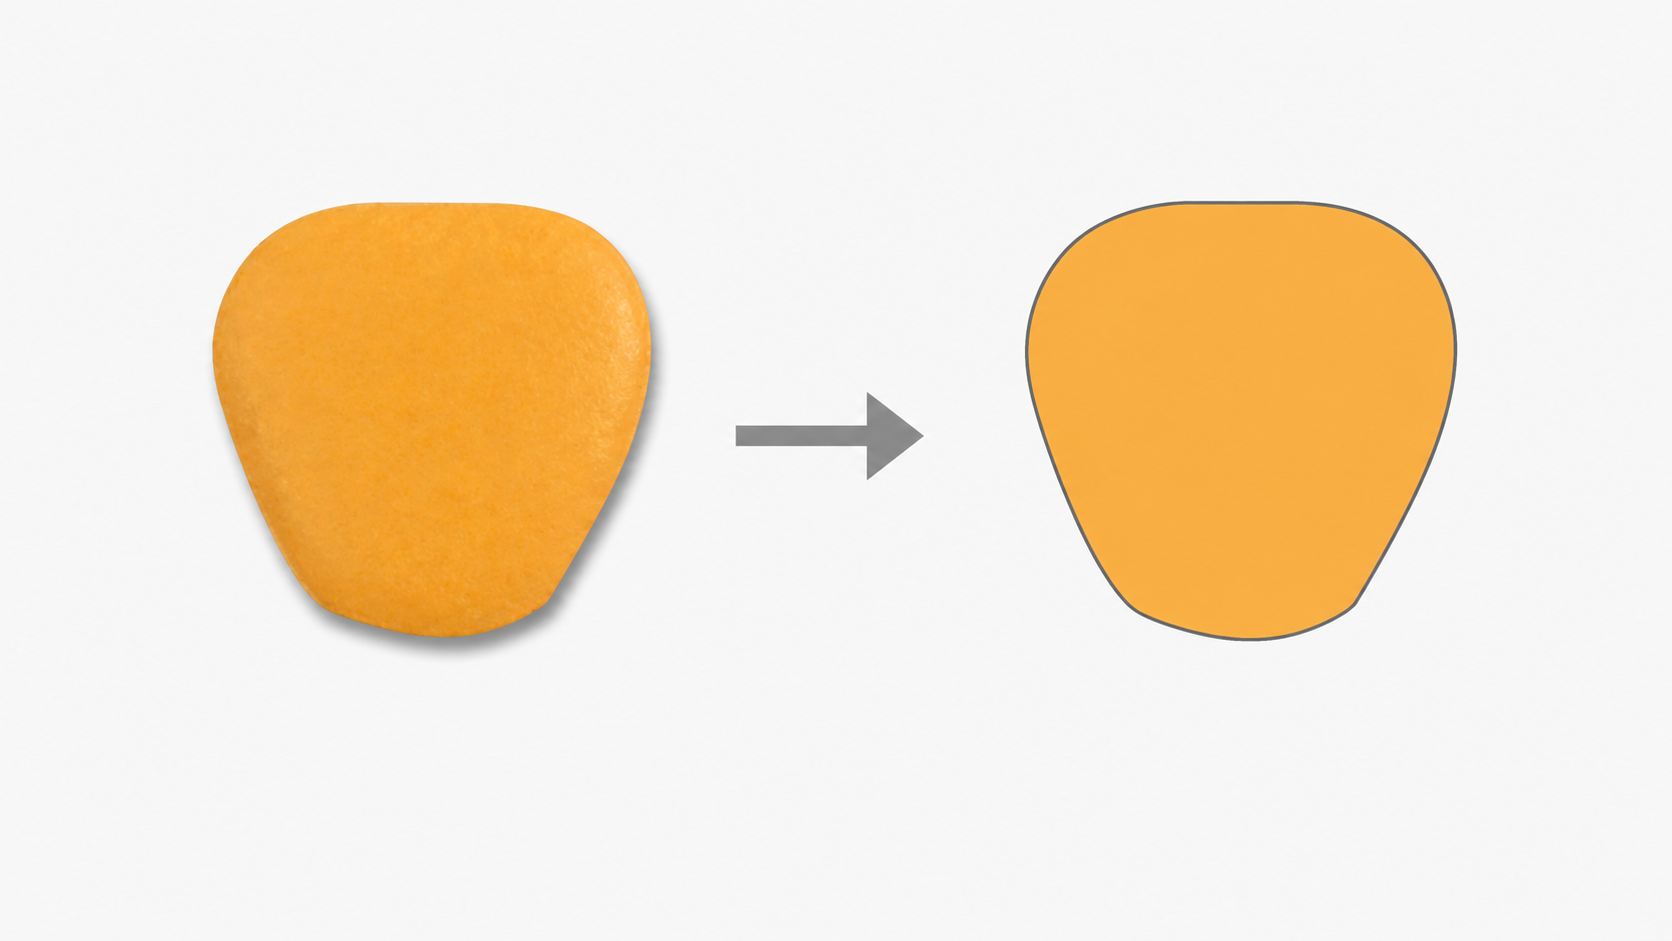
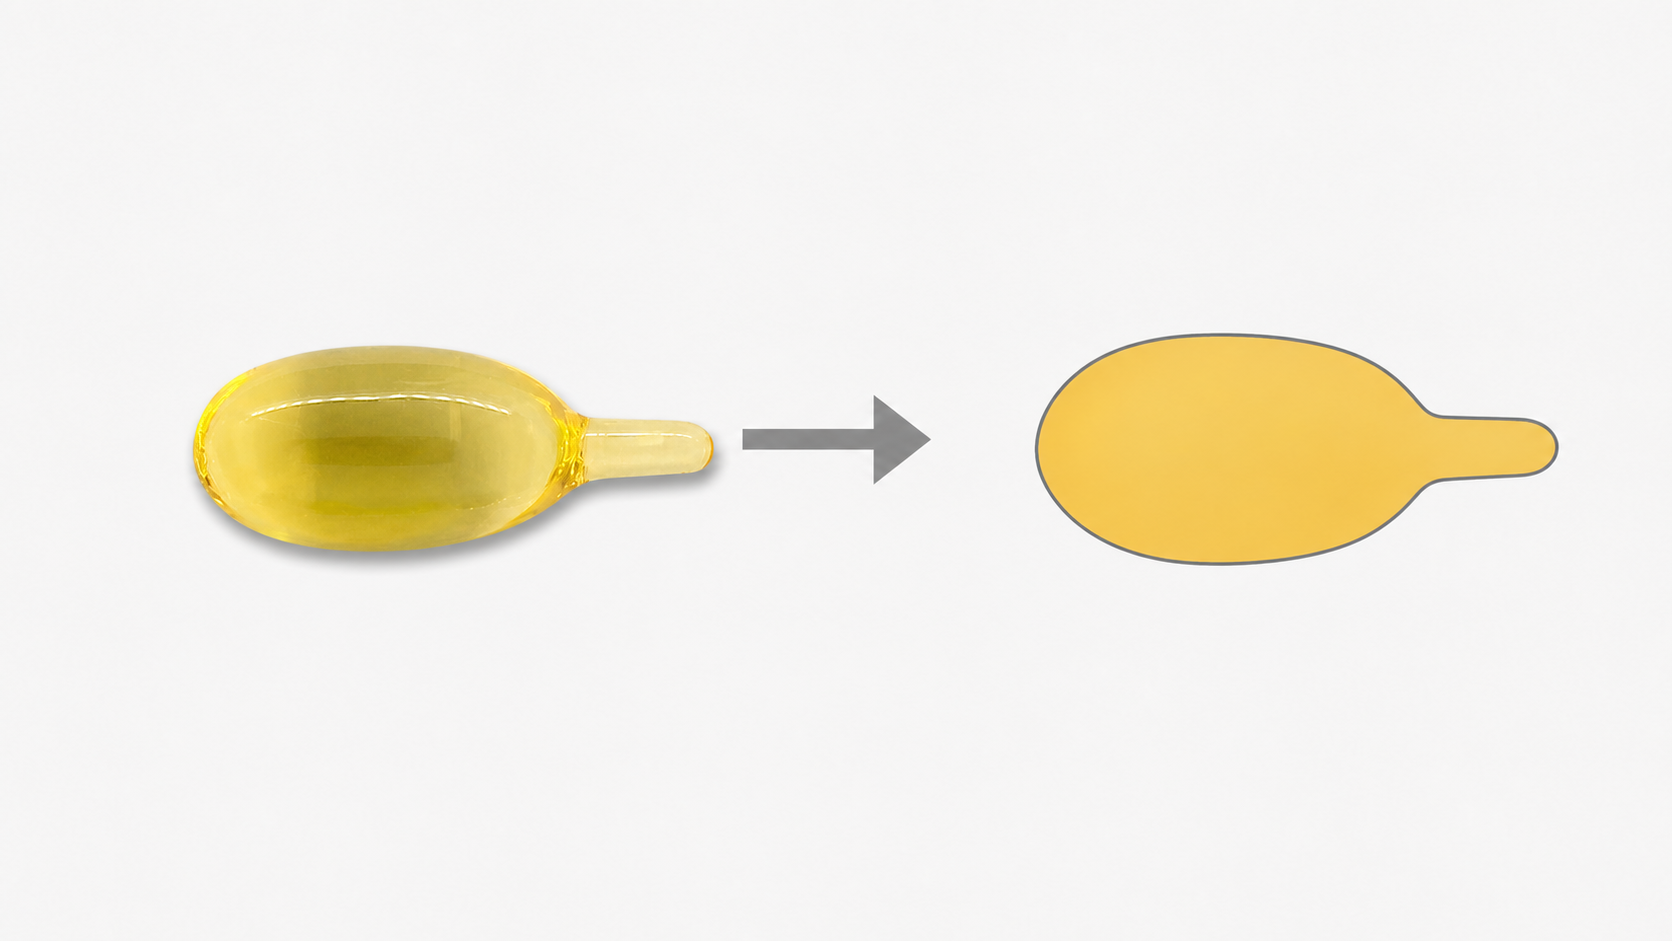
260716

Changed region(s): [[0.0933, 0.2157, 0.5598, 0.7088], [0.5909, 0.2157, 0.933, 0.678]]

diff --git a/ppt/build_proj2_ssm.py b/ppt/build_proj2_ssm.py
@@ -320,9 +320,9 @@ def build_slide_3(prs):
     )
 
     cards = [
-        (1.65, "장방형", ROOT / "shape_rectangular.png", BLUE),
-        (9.62, "사과형", ROOT / "shape_apple_v2.png", CYAN),
-        (17.59, "땅콩형", ROOT / "shape_peanut.png", BLUE),
+        (1.65, "장방형", ROOT / "shape_rectangular_bg.png", BLUE),
+        (9.62, "사과형", ROOT / "shape_apple_bg.png", CYAN),
+        (17.59, "땅콩형", ROOT / "shape_peanut_bg.png", BLUE),
     ]
     for idx, (x, label, image_path, color) in enumerate(cards, start=1):
         add_shape(slide, MSO_SHAPE.ROUNDED_RECTANGLE, x, 4.95, 7.42, 6.40, LIGHT_GRAY)

diff --git a/설명.md b/설명.md
@@ -1,0 +1,160 @@
+# 형상 특징 차원수와 가중치 설명
+
+`shape_features.py`는 알약 윤곽을 총 56개 숫자로 표현한 다음, 네 특징 그룹의 중요도가 균형 있게 반영되도록 가중 유클리드 거리를 계산한다.
+
+## 1. 56차원 구성
+
+| 그룹 | 차원 계산 | 차원 | 의미 |
+|---|---:|---:|---|
+| 기본 기하 | 9개 지표 | 9 | 길쭉함, 원형성, 볼록성, 대칭성 등 |
+| EFD | 12 harmonics × 2 특이값 | 24 | 전체 윤곽의 세부 형태 |
+| 방사형 FFT | 1~16 주파수 | 16 | 중심에서 외곽까지 거리 변화 |
+| Hu moment | 7개 모멘트 | 7 | 전체적인 형상 패턴 |
+| 합계 | 9+24+16+7 | **56** | |
+
+### 기본 기하 특징 9차원
+
+1. `log_aspect_ratio`: 긴 변/짧은 변 비율
+2. `circularity`: 원에 얼마나 가까운지
+3. `eccentricity`: 타원처럼 길쭉한 정도
+4. `rectangularity`: 최소 외접 사각형을 얼마나 채우는지
+5. `solidity`: 볼록 껍질 내부를 얼마나 채우는지
+6. `convexity`: 윤곽이 얼마나 볼록하고 매끄러운지
+7. `concavity`: 오목하게 들어간 정도, `1 - solidity`
+8. `symmetry_best_axis`: 두 축 중 대칭도가 높은 축
+9. `symmetry_other_axis`: 나머지 축의 대칭도
+
+`solidity`와 `concavity`는 서로 반대값이므로 오목한 형태, 특히 땅콩형이나 나비형의 특징이 기본 기하 그룹 안에서 비교적 강하게 반영된다.
+
+### EFD 24차원
+
+윤곽선을 12개의 주파수 성분으로 분해한다. 각 harmonic에서 2×2 계수 행렬의 특이값 2개를 사용하므로 다음과 같이 24차원이 된다.
+
+```text
+12 harmonics × 2 values = 24차원
+```
+
+낮은 harmonic은 전체적인 타원·삼각·사각 형태를, 높은 harmonic은 모서리와 오목한 부분 같은 세부 윤곽을 표현한다.
+
+### 방사형 FFT 16차원
+
+알약 중심에서 외곽까지의 거리를 64개 각도 구간에서 측정한 뒤 FFT를 적용한다. 평균 크기인 0번 주파수는 제외하고 1~16번 주파수만 사용한다.
+
+따라서 크기 자체보다는 다음과 같은 반복적인 윤곽 변화를 표현한다.
+
+- 원형처럼 반지름 변화가 적은 형태
+- 타원처럼 양쪽으로 길쭉한 형태
+- 땅콩처럼 중간이 들어간 형태
+- 별형이나 다각형처럼 주기적인 굴곡이 있는 형태
+
+### Hu moment 7차원
+
+전체 윤곽의 모멘트에서 계산되는 전통적인 7개 형상 특징이다. 값의 범위가 매우 크기 때문에 로그 변환하며, 반전에 따른 부호 차이는 제거한다.
+
+## 2. 그룹 가중치 의미
+
+기본값은 다음과 같다.
+
+```python
+{
+    "basic": 0.40,
+    "efd": 0.35,
+    "radial": 0.20,
+    "hu": 0.05,
+}
+```
+
+합계는 1.0이다.
+
+- 기본 기하: **40%**
+- EFD: **35%**
+- 방사형: **20%**
+- Hu moment: **5%**
+
+이 값은 각 차원에 그대로 곱하지 않는다. 그룹의 차원수가 많다고 자동으로 영향력이 커지는 것을 막기 위해 다음처럼 차원별 가중치를 계산한다.
+
+```text
+차원별 가중치 = sqrt(그룹 가중치 / 그룹 차원수)
+```
+
+실제 값은 다음과 같다.
+
+| 그룹 | 계산 | 차원별 가중치 |
+|---|---:|---:|
+| 기본 기하 | √(0.40/9) | 0.2108 |
+| EFD | √(0.35/24) | 0.1208 |
+| 방사형 | √(0.20/16) | 0.1118 |
+| Hu | √(0.05/7) | 0.0845 |
+
+## 3. 제곱근을 사용하는 이유
+
+최종 비교가 유클리드 거리이기 때문이다.
+
+```text
+distance = sqrt(Σ(weighted_query - weighted_reference)²)
+```
+
+가중치를 곱한 뒤 다시 제곱하므로, 차원별로 `sqrt(weight / 차원수)`를 곱해야 그룹 전체의 제곱거리 영향력이 `weight`가 된다.
+
+최종 제곱거리는 사실상 다음과 같다.
+
+```text
+distance² =
+    0.40 × 기본 특징의 평균 제곱 차이
+  + 0.35 × EFD의 평균 제곱 차이
+  + 0.20 × 방사형 특징의 평균 제곱 차이
+  + 0.05 × Hu moment의 평균 제곱 차이
+```
+
+따라서 EFD가 24차원이라고 해서 9차원인 기본 기하보다 자동으로 2.67배 중요해지지 않는다.
+
+예를 들어 네 그룹의 평균 표준화 제곱 차이가 모두 1이라면 다음과 같이 계산된다.
+
+```text
+distance² = 0.40 + 0.35 + 0.20 + 0.05 = 1.0
+distance = 1.0
+```
+
+## 4. 가중치 적용 전 표준화
+
+각 특징은 단위와 값의 범위가 다르므로 먼저 다음과 같이 표준화한다.
+
+```text
+표준화값 = (원시 특징값 - 학습 데이터 중앙값) / IQR
+```
+
+그 후 값이 지나치게 커지는 것을 방지하기 위해 `-10~10`으로 제한하고, 차원별 가중치를 곱한다.
+
+```python
+standardized = clip((vector - median) / IQR, -10, 10)
+result = standardized * dimension_weights
+```
+
+전체 처리 순서는 다음과 같다.
+
+```text
+56차원 추출
+→ 중앙값/IQR 표준화
+→ 이상값 -10~10 제한
+→ 그룹별 차원 가중치 적용
+→ 유클리드 거리 계산
+```
+
+## 5. 현재 가중치의 해석
+
+이 가중치는 학습으로 자동 산출된 값이 아니라 수동으로 설정한 기본값이다.
+
+- `basic 0.40`: 가로세로비나 오목도처럼 안정적이고 해석하기 쉬운 특징을 가장 중요하게 본다.
+- `EFD 0.35`: 기본 특징으로 구분하기 어려운 세부 윤곽을 강하게 반영한다.
+- `radial 0.20`: 중심 기준 굴곡 정보를 보완적으로 사용한다.
+- `Hu 0.05`: 유용하지만 마스크 노이즈에 민감하고 다른 특징과 중복되는 부분이 있어 낮게 설정했다.
+
+여기서 “기본 기하 40%”는 모든 검색 결과에서 정확히 거리의 40%를 차지한다는 뜻이 아니다. 네 그룹의 평균 표준화 오차가 비슷할 때 제곱거리의 약 40%를 담당하도록 설계했다는 의미다.
+
+## 6. 관련 구현 위치
+
+- 특징 이름 및 그룹 구성: `shape_features.py`의 `BASIC_FEATURE_NAMES`, `EFD_FEATURE_NAMES`, `RADIAL_FEATURE_NAMES`, `HU_FEATURE_NAMES`
+- 기본 그룹 가중치: `DEFAULT_GROUP_WEIGHTS`
+- 차원별 가중치 계산: `feature_dimension_weights()`
+- 표준화 및 가중치 적용: `transform_features()`
+- 최종 거리 계산: `predict_handcrafted_shape.py`의 `np.linalg.norm()` 호출 부분

diff --git a/docs/prompt.md b/docs/prompt.md
@@ -60,3 +60,40 @@ shape_features.md
 2. ppt.note.md 파일을 바탕으로 proj2_ssm.pptx 작성
 3. ppt 템플릿은 ppt_template_proj2.pptx를 사용
 4. ppt는 3장만 만들면 된다.
+
+
+# 이미지 교체
+1. ppt 폴더에 있는 proj2_ssm.pptx 의 첫 번째 페이지에 들어가는 이미지 shape_extraction_process.png 를 수정하고 싶다.
+2. 기존 이미지에는 사과형이 들어가 있는데 'C:\Workspace\deeplearning\pill_shape_similarity\test_images\A11AOOOOO100201.jpg' 이 이미지로 교체하고 싶다.
+3. 기존 이미지의 내용 형식은 지키면서 사과형 알약만 물방울3 알약으로 교체시켜줘
+4. 수정한 이미지는 shape_extraction_process_.png 로 만들어줘
+
+
+
+# 요구사항
+니가 크롭한 이미지들인데 크롭만 해야하는데 가공이 너무 들어가서 알약 같지가 않다.
+"C:\Workspace\deeplearning\pill_shape_similarity\ppt\shape_apple.png"
+"C:\Workspace\deeplearning\pill_shape_similarity\ppt\shape_peanut.png"
+"C:\Workspace\deeplearning\pill_shape_similarity\ppt\shape_rectangular.png"
+
+다음 원본 이미지들에서 위와 같은 형식으로 다시 크롭해줘
+
+"C:\Workspace\deeplearning\pill_shape_similarity\test_images\200909230007701.jpg"
+이미지내에서 왼쪽 알약만 크롭해서 다른 가공 없이 ppt\shape_apple_.png 로 생성
+
+"C:\Workspace\deeplearning\pill_shape_similarity\test_images\200907150583201.jpg"
+이미지내에서 왼쪽 알약만 크롭해서 다른 가공 없이 ppt\shape_rectangular_.png
+
+"C:\Workspace\deeplearning\pill_shape_similarity\test_images\201110240001401.jpg"
+이미지내에서 왼쪽 알약만 크롭해서 다른 가공 없이 ppt\shape_peanut_.png
+
+
+# 추가 수정
+니가 만든 이미지들 배경 수정이 필요하다
+이미지 사이즈를 800x500 으로 동일하게 맞추고 알약 이미지 자체는 크기를 늘리거나 하지마
+나머지를 배경으로 채우는데 "C:\Workspace\deeplearning\pill_shape_similarity\ppt\shape_apple.png"와 동일한 형식으로 채워줘
+수정할 이미지들
+    - ppt/shape_apple_.png
+    - ppt/shape_rectangular_.png
+    - ppt/shape_peanut_.png
+수정한 후 파일명 뒤에 bg 를 붙여서 저장해줘

diff --git a/ppt/ppt_script.md b/ppt/ppt_script.md
@@ -1,0 +1,27 @@
+외형 분류 1장
+외형 분류의 경우, 1차 때 방식은 데이터가 많은 9개 클래스만 분류하고 나머지는 기타 처리하는 방식
+이번 2차에서는 29개를 모두 분류합니다.
+
+검색 과정
+    이미지 입력 => 
+    알약 영역 분리 (이미지 설명) => 
+    알약 모양을 숫자로 이루어진 벡터로 변환 => 
+    각 외형의 대표 벡터와 거리 비교 => 
+    가장 가까운 클래스 후보들 반환
+
+
+외형 분류 2장
+56차원 형상 임베딩 다음으로 구성
+각 차원은 해당 숫자 개수로 이루어진 벡터
+    기본 기하 특징 : 얼마나 길쭉하고, 둥글고, 오목한가를 벡터로 표현
+    EFD : 외곽선 좌표 벡터로 전환
+    방사형 FFT : 중심에서 외곽까지 거리가 방향에 따라 변하는 것을 벡터로 표현
+    Hu moment : 면적 분포의 패턴을 벡터화
+
+벡터 생성 과정
+5만4천장의 이미지 특징을 2만7천개의 알약별 중앙값으로 모으고
+다시 외형별로 29개의 중앙값을 모아서 대표 벡터로 만들었습니다.
+
+외형 분류 3장
+실제 이미지에서 확인한 외형 검색 결과는
+보시는바와 같이 장방형, 사과형, 땅콩형

diff --git a/ppt/ppt_note.md b/ppt/ppt_note.md
@@ -124,7 +124,7 @@
 
 | 장방형 | 사과형 | 땅콩형 |
 |---|---|---|
-| ![장방형 알약](shape_rectangular.png) | ![사과형 알약](shape_apple_v2.png) | ![땅콩형 알약](shape_peanut.png) |
+| ![장방형 알약](shape_rectangular.png) | ![사과형 알약](shape_apple.png) | ![땅콩형 알약](shape_peanut.png) |
 | **Top-1 일치** | **Top-1 일치** | **Top-1 일치** |
 
 하단 — 결과와 함께 제공되는 정보: